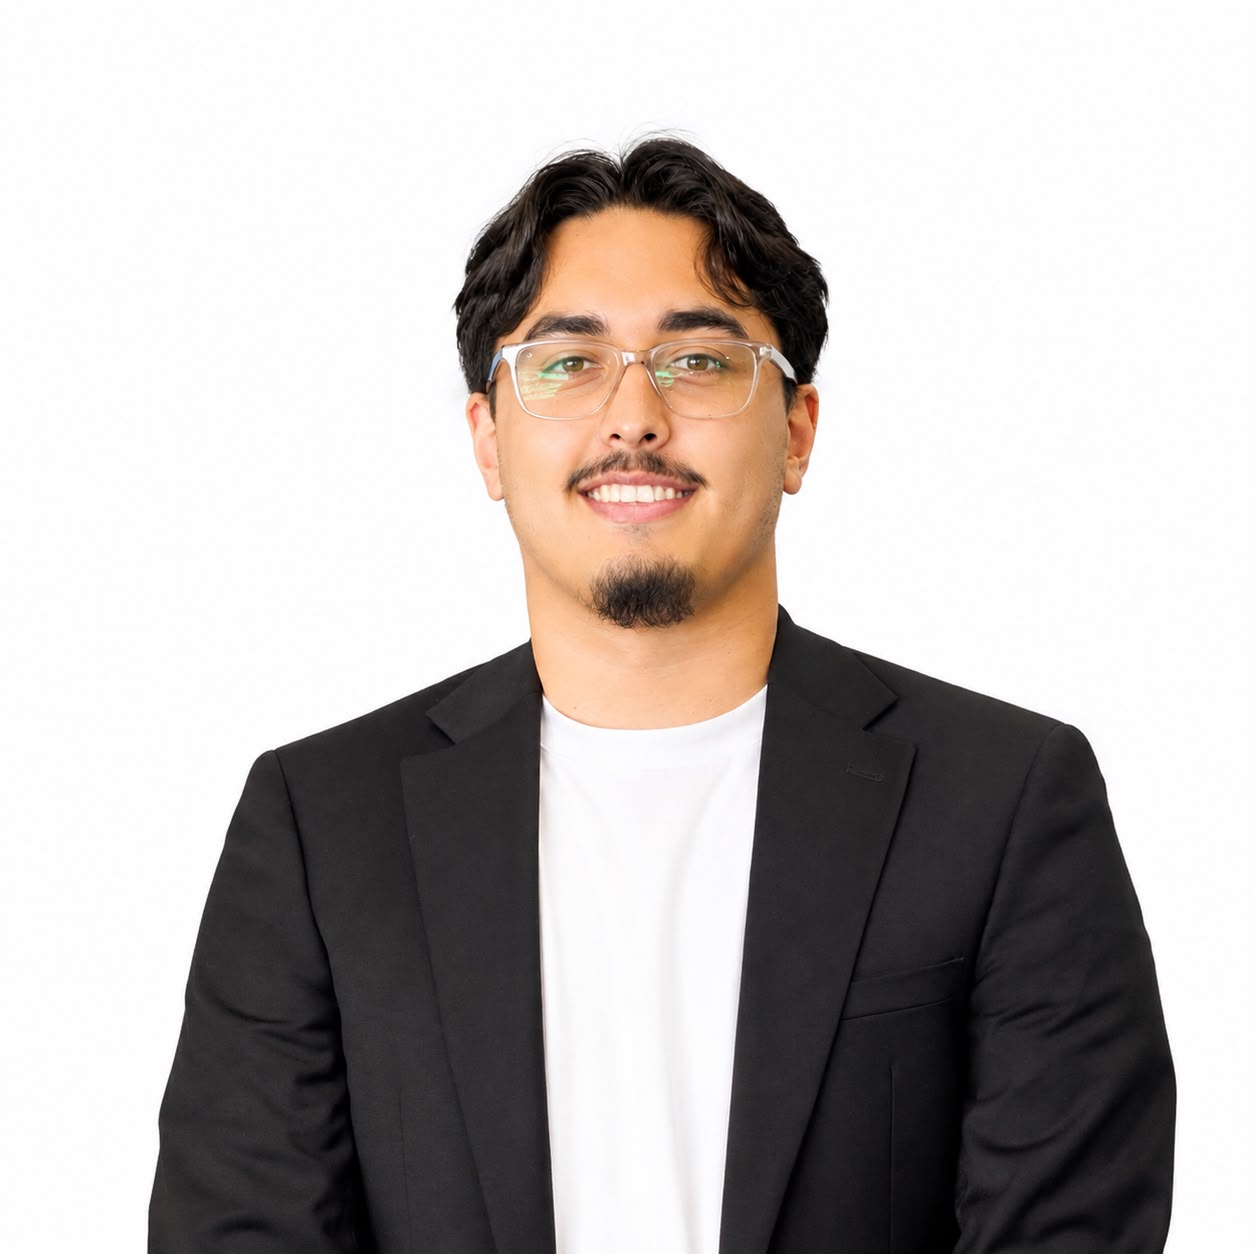
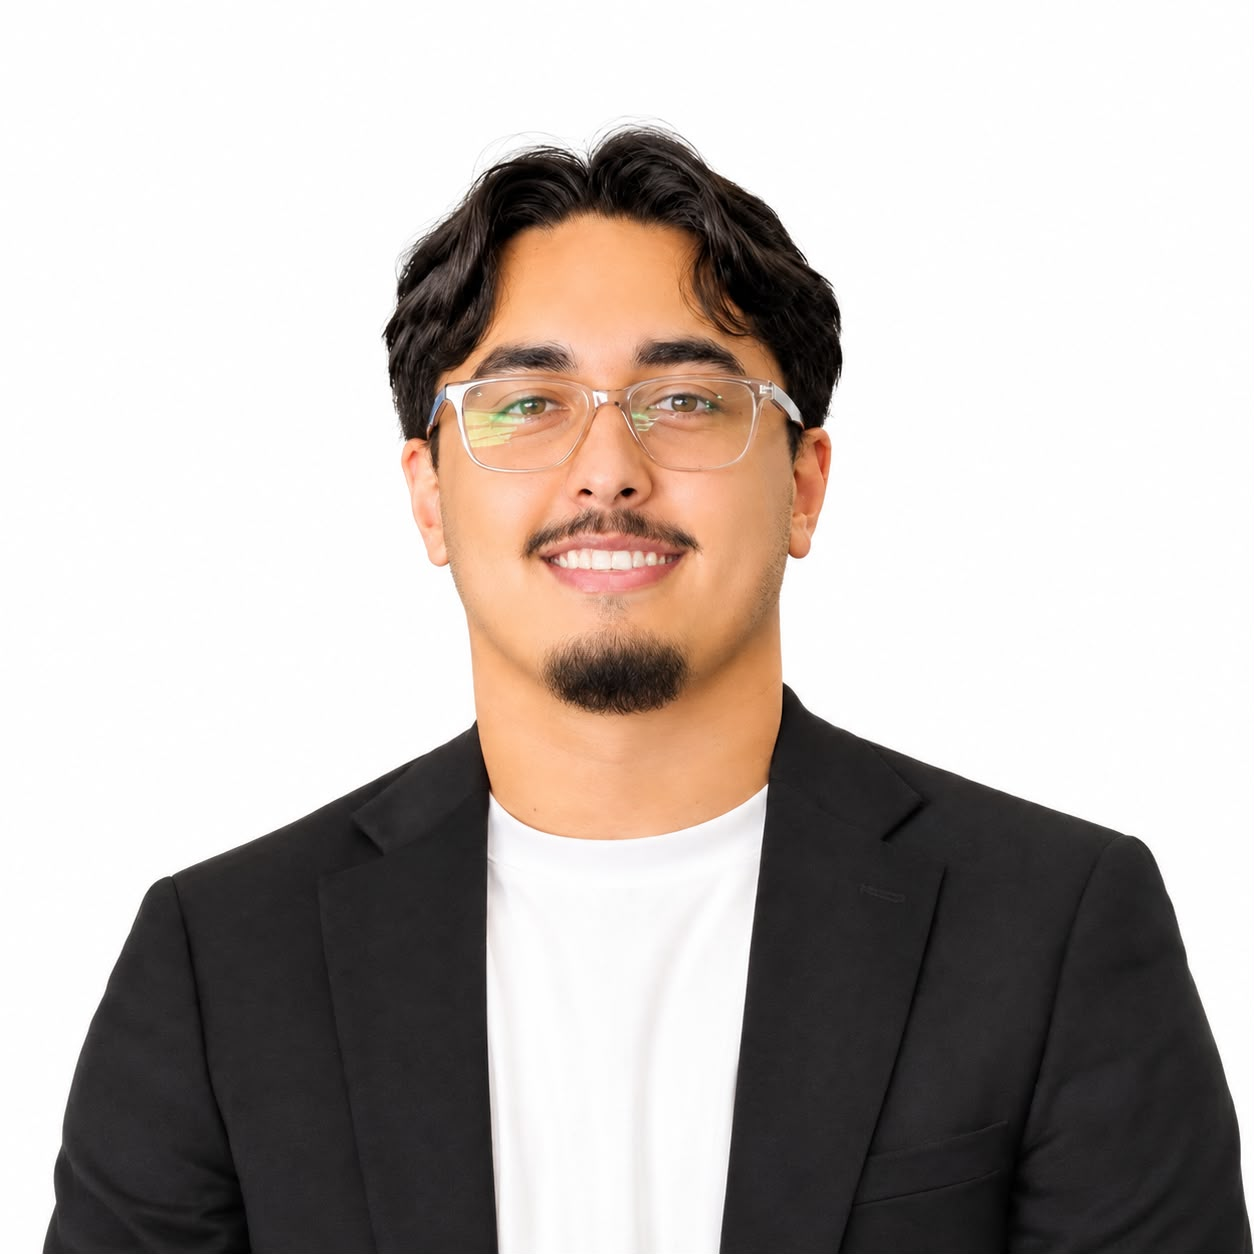
added pictures

diff --git a/team.html b/team.html
@@ -342,7 +342,7 @@
 
       <article class="member" data-reveal data-cursor>
         <div class="member-idx">03</div>
-        <div class="member-photo"><div class="member-ph"><span>AS</span></div></div>
+        <div class="member-photo"><img src="public/team/asim.jpg" alt="Asim Shamim" loading="lazy"></div>
         <div class="member-info">
           <div class="member-name">Asim Shamim</div>
           <div class="member-role">Chief Financial Officer</div>
